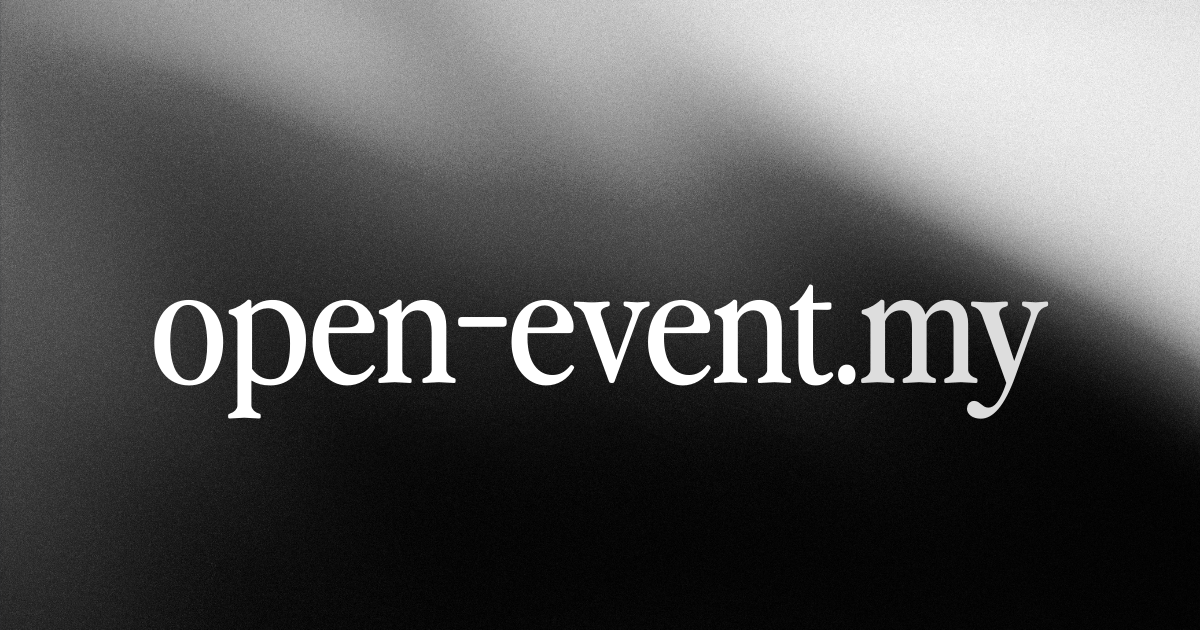
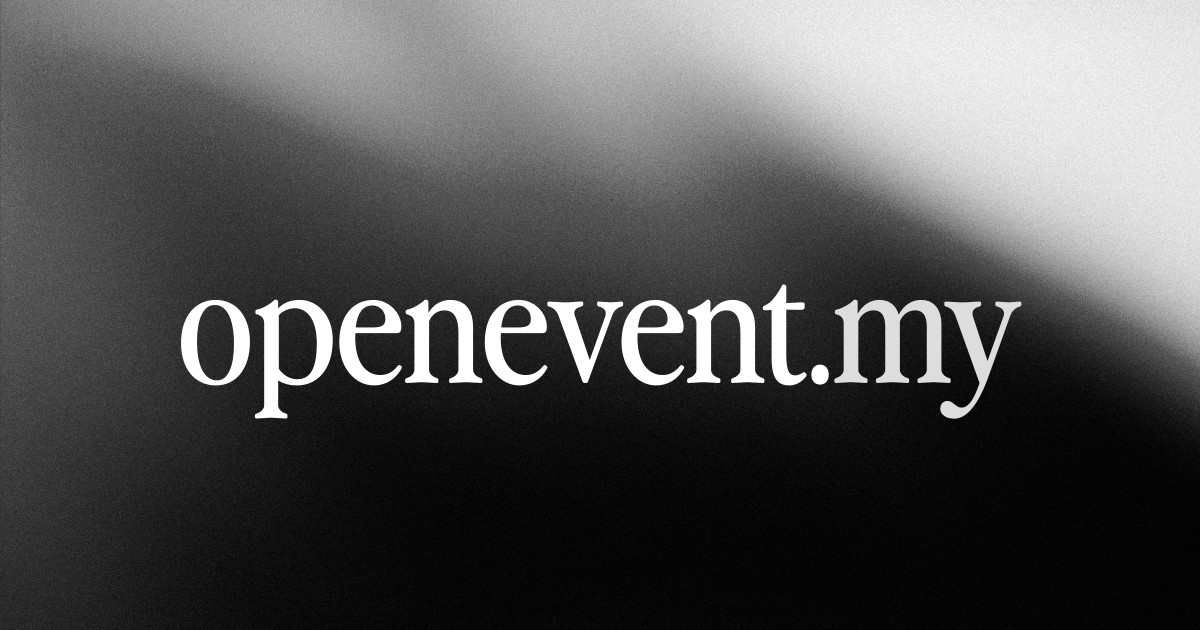
Fix: SEO

Changed region(s): [[0.1233, 0.4524, 0.8942, 0.6635]]

diff --git a/index.html b/index.html
@@ -14,7 +14,7 @@
     <meta name="language" content="English" />
 
     <!-- Canonical URL -->
-    <link rel="canonical" href="https://open-event.io" />
+    <link rel="canonical" href="https://openevent.my" />
 
     <!-- Favicon -->
     <link rel="icon" type="image/png" sizes="32x32" href="/favicon-32x32.png" />
@@ -26,10 +26,10 @@
 
     <!-- Open Graph / Facebook -->
     <meta property="og:type" content="website" />
-    <meta property="og:url" content="https://open-event.io/" />
+    <meta property="og:url" content="https://openevent.my/" />
     <meta property="og:title" content="Open Event - The Open-Source Event Operations Platform" />
     <meta property="og:description" content="Run seamless events with the right partners. Find vetted sponsors and vendors, manage logistics with AI, and execute flawless events - all in one open-source platform." />
-    <meta property="og:image" content="https://open-event.io/og-image.png" />
+    <meta property="og:image" content="https://openevent.my/og-image.png" />
     <meta property="og:image:width" content="1200" />
     <meta property="og:image:height" content="630" />
     <meta property="og:site_name" content="Open Event" />
@@ -37,10 +37,10 @@
 
     <!-- Twitter -->
     <meta name="twitter:card" content="summary_large_image" />
-    <meta name="twitter:url" content="https://open-event.io/" />
+    <meta name="twitter:url" content="https://openevent.my/" />
     <meta name="twitter:title" content="Open Event - The Open-Source Event Operations Platform" />
     <meta name="twitter:description" content="Run seamless events with the right partners. Find vetted sponsors and vendors, manage logistics with AI, and execute flawless events - all in one open-source platform." />
-    <meta name="twitter:image" content="https://open-event.io/og-image.png" />
+    <meta name="twitter:image" content="https://openevent.my/og-image.png" />
 
     <!-- Additional SEO -->
     <meta name="format-detection" content="telephone=no" />
@@ -77,8 +77,8 @@
       "@context": "https://schema.org",
       "@type": "Organization",
       "name": "Open Event",
-      "url": "https://open-event.io",
-      "logo": "https://open-event.io/og-image.png",
+      "url": "https://openevent.my",
+      "logo": "https://openevent.my/og-image.png",
       "sameAs": [
         "https://github.com/hazlijohar95/open-event"
       ]
